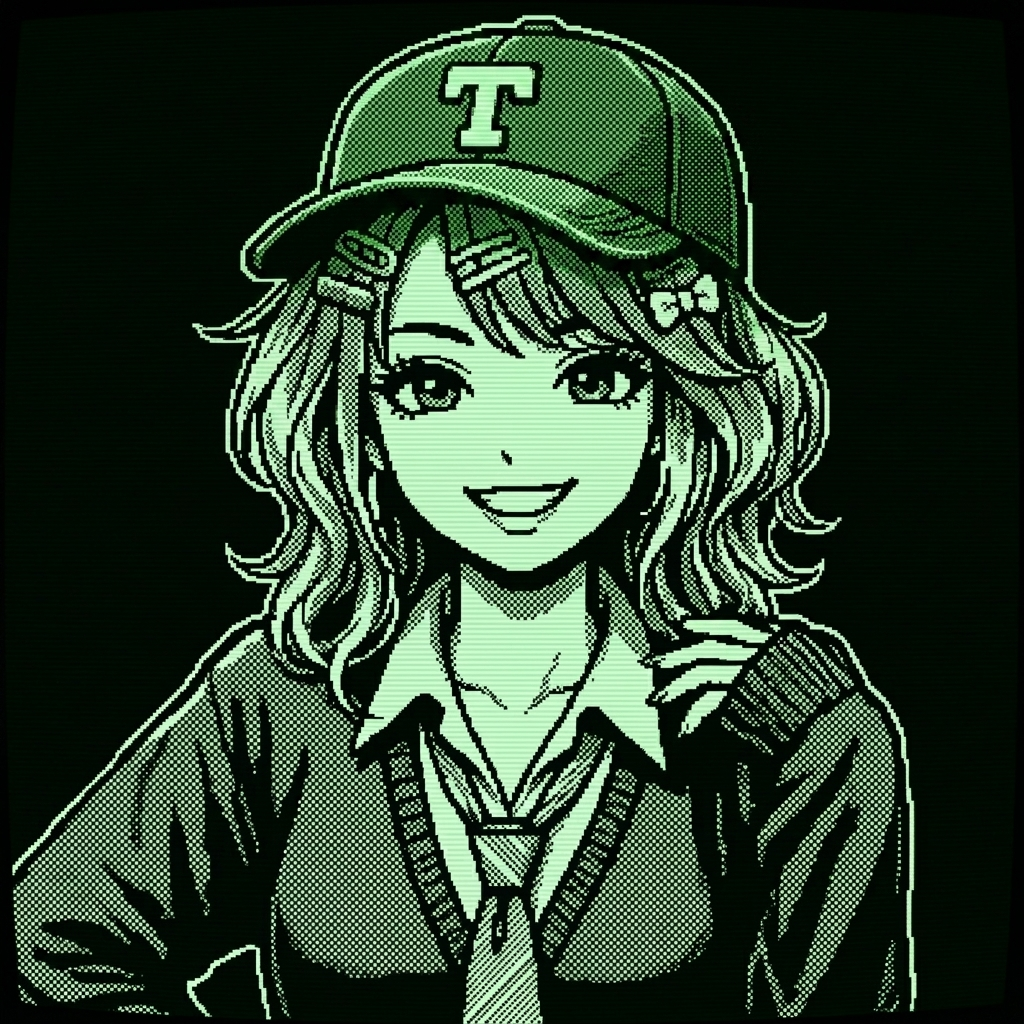
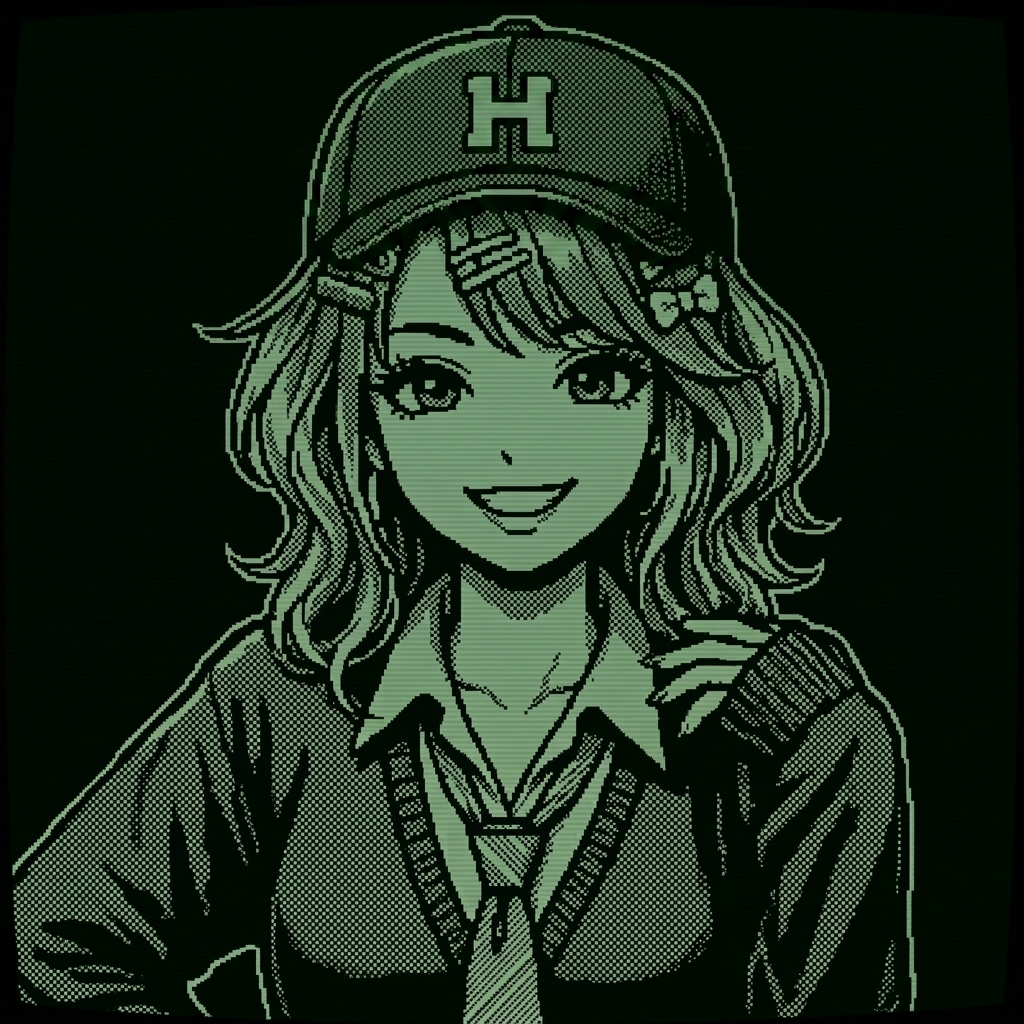
Update Luna baseball image, fix SVG runners diamond, improve responsiveness to v2.08

Changed region(s): [[0.0, 0.0, 0.9062, 1.0], [0.1875, 0.9375, 0.2188, 1.0], [0.125, 0.9688, 0.1562, 1.0]]

diff --git a/style.css b/style.css
@@ -1228,7 +1228,7 @@ input[type="checkbox"]:checked + .switch-slider::after {
 .bso-row:nth-child(2) .dot-active { color: #ffcc00; } /* Strike: Yellow/Amber */
 .bso-row:nth-child(3) .dot-active { color: #ff3333; } /* Out: Red */
 
-/* Runners Diamond Visualizer - Perfectly aligned */
+/* Runners Diamond SVG Visualizer - Perfectly aligned */
 .runners-diamond {
     width: 64px;
     height: 64px;
@@ -1237,58 +1237,35 @@ input[type="checkbox"]:checked + .switch-slider::after {
     align-items: center;
 }
 
-.diamond {
-    width: 42px;
-    height: 42px;
-    border: 1px dashed rgba(51, 255, 51, 0.4);
-    transform: rotate(45deg);
-    position: relative;
+.diamond-svg {
+    width: 100%;
+    height: 100%;
 }
 
-.base {
-    width: 8px;
-    height: 8px;
-    background: #000;
-    border: 1px solid var(--retro-green);
-    position: absolute;
-    box-sizing: border-box;
-    transform: rotate(-45deg);
-    z-index: 2;
+.diamond-line {
+    fill: none;
+    stroke: rgba(51, 255, 51, 0.4);
+    stroke-width: 1.5px;
+    stroke-dasharray: 2, 2;
 }
 
-.second-base {
-    top: -4px;
-    left: -4px;
+.base-rect {
+    fill: #000000;
+    stroke: var(--retro-green);
+    stroke-width: 1.2px;
+    transition: fill 0.2s, stroke 0.2s, filter 0.2s;
 }
 
-.third-base {
-    bottom: -4px;
-    left: -4px;
+.base-rect.active {
+    fill: var(--retro-amber);
+    stroke: var(--retro-amber);
+    filter: drop-shadow(0 0 3px var(--retro-amber));
 }
 
-.first-base {
-    top: -4px;
-    right: -4px;
-}
-
-.home-plate {
-    width: 8px;
-    height: 8px;
-    background: #000;
-    border: 1px solid var(--retro-green);
-    position: absolute;
-    bottom: -4px;
-    right: -4px;
-    transform: rotate(-45deg);
-    clip-path: polygon(50% 0%, 100% 38%, 100% 100%, 0% 100%, 0% 38%);
-    box-sizing: border-box;
-    z-index: 2;
-}
-
-.base.active, .home-plate.active {
-    background: var(--retro-amber);
-    box-shadow: 0 0 5px var(--retro-amber);
-    border-color: var(--retro-amber);
+.base-home {
+    fill: #000000;
+    stroke: var(--retro-green);
+    stroke-width: 1.2px;
 }
 
 .player-matchup {
@@ -1324,4 +1301,104 @@ input[type="checkbox"]:checked + .switch-slider::after {
     align-items: center;
     font-size: 0.68rem;
     color: rgba(51, 255, 51, 0.5);
+}
+
+/* ==========================================
+   BASEBALL RESPONSIVE & LAYOUT OPTIMIZATIONS
+   ========================================== */
+
+/* Low height screen adjustments for desktop to prevent overflow */
+@media (max-height: 800px) and (min-width: 901px) {
+    .portrait-section {
+        max-width: 230px;
+    }
+    #baseballPanel {
+        gap: 3px;
+        padding: 6px 10px;
+    }
+    .scoreboard-table {
+        font-size: 0.65rem;
+    }
+    .game-detail-grid {
+        padding: 2px 4px;
+        margin-bottom: 2px;
+    }
+    .runners-diamond {
+        width: 56px;
+        height: 56px;
+    }
+    .player-matchup {
+        padding: 2px 6px;
+        margin-bottom: 2px;
+        font-size: 0.68rem;
+    }
+    .last-play-box {
+        padding: 3px 6px;
+        min-height: 28px;
+        font-size: 0.68rem;
+        margin-bottom: 2px;
+    }
+}
+
+@media (max-height: 700px) and (min-width: 901px) {
+    .portrait-section {
+        max-width: 190px;
+    }
+    #baseballPanel {
+        gap: 2px;
+        padding: 4px 8px;
+    }
+    .scoreboard-table {
+        font-size: 0.6rem;
+    }
+    .game-detail-grid {
+        padding: 1px 3px;
+        margin-bottom: 1px;
+    }
+    .runners-diamond {
+        width: 48px;
+        height: 48px;
+    }
+    .player-matchup {
+        padding: 1px 5px;
+        margin-bottom: 1px;
+        font-size: 0.65rem;
+    }
+    .last-play-box {
+        padding: 2px 5px;
+        min-height: 24px;
+        font-size: 0.65rem;
+        margin-bottom: 1px;
+    }
+}
+
+/* Mobile & Tablet adjustments for Baseball Mode */
+@media (max-width: 900px) {
+    .portrait-section.baseball-active {
+        height: auto;
+        flex-direction: column;
+        max-width: 100%;
+        flex: 0 0 auto;
+        border: 4px double var(--retro-cyan);
+    }
+    .portrait-section.baseball-active .portrait-container {
+        width: 100%;
+        height: 120px;
+        aspect-ratio: auto;
+        border-bottom: 4px double var(--retro-cyan);
+        border-right: none;
+    }
+    .portrait-section.baseball-active #baseballPanel {
+        flex: none;
+        height: auto;
+        padding: 10px 12px;
+        gap: 8px;
+    }
+    .portrait-section.baseball-active .scoreboard-table {
+        font-size: 0.75rem;
+    }
+    .portrait-section.baseball-active .runners-diamond {
+        width: 64px;
+        height: 64px;
+    }
 }

diff --git a/index.html b/index.html
@@ -31,7 +31,7 @@
             <!-- Header (Retro BIOS Style) -->
             <header class="app-header">
                 <div class="logo-area">
-                    <span class="logo-text">>_ C.O.S.M.O.S.<span class="hide-mobile"> SYSTEM [ROM v2.07]</span></span>
+                    <span class="logo-text">>_ C.O.S.M.O.S.<span class="hide-mobile"> SYSTEM [ROM v2.08]</span></span>
                 </div>
                 <div class="system-status">
                     <span class="status-indicator online"></span>
@@ -164,12 +164,13 @@
                                 </div>
                                 
                                 <div class="runners-diamond">
-                                    <div class="diamond">
-                                        <div id="base2" class="base second-base"></div>
-                                        <div id="base3" class="base third-base"></div>
-                                        <div id="base1" class="base first-base"></div>
-                                        <div class="home-plate"></div>
-                                    </div>
+                                    <svg class="diamond-svg" viewBox="0 0 64 64" width="64" height="64">
+                                        <polygon points="32,8 56,32 32,56 8,32" class="diamond-line" />
+                                        <rect id="base2" x="28" y="4" width="8" height="8" transform="rotate(45 32 8)" class="base-rect" />
+                                        <rect id="base3" x="4" y="28" width="8" height="8" transform="rotate(45 8 32)" class="base-rect" />
+                                        <rect id="base1" x="52" y="28" width="8" height="8" transform="rotate(45 56 32)" class="base-rect" />
+                                        <polygon id="baseHome" points="28,52 36,52 36,56 32,60 28,56" class="base-home" />
+                                    </svg>
                                 </div>
                             </div>
                             

diff --git a/app.js b/app.js
@@ -2817,7 +2817,7 @@ function updatePortraitUI() {
     }
     
     // Cache buster to force browsers to reload newly overwritten images instantly
-    const v = '?v=10';
+    const v = '?v=2.08';
     
     // 帽子をかぶる動作中、またはヘッドホン着脱のアニメーション中
     if (isPuttingBaseballCap || isPuttingHeadphones || isRemovingHeadphones) {
@@ -2869,8 +2869,10 @@ function enableBaseballMode() {
     // Switch UI panels
     const musicPanel = document.getElementById('musicPlayerPanel');
     const baseballPanel = document.getElementById('baseballPanel');
+    const portraitSection = document.querySelector('.portrait-section');
     if (musicPanel) musicPanel.style.display = 'none';
     if (baseballPanel) baseballPanel.style.display = 'flex';
+    if (portraitSection) portraitSection.classList.add('baseball-active');
     
     // Update portrait for transition animation
     updatePortraitUI();
@@ -2893,8 +2895,10 @@ function disableBaseballMode() {
     // Switch UI panels
     const musicPanel = document.getElementById('musicPlayerPanel');
     const baseballPanel = document.getElementById('baseballPanel');
+    const portraitSection = document.querySelector('.portrait-section');
     if (musicPanel) musicPanel.style.display = 'flex';
     if (baseballPanel) baseballPanel.style.display = 'none';
+    if (portraitSection) portraitSection.classList.remove('baseball-active');
     
     // Update portrait (Luna takes off the cap)
     updatePortraitUI();

diff --git a/sw.js b/sw.js
@@ -1,4 +1,4 @@
-const CACHE_NAME = 'luna-v2.07';
+const CACHE_NAME = 'luna-v2.08';
 const ASSETS = [
   './',
   './index.html',
@@ -13,7 +13,8 @@ const ASSETS = [
   './assets/elena_mono_low_headphones.jpg',
   './assets/elena_mono_talk_headphones.jpg',
   './assets/elena_mono_put_headphones.jpg',
-  './assets/elena_mono_low_open_eyes_headphones.jpg'
+  './assets/elena_mono_low_open_eyes_headphones.jpg',
+  './assets/elena_mono_baseball.jpg'
 ];
 
 self.addEventListener('install', (e) => {
